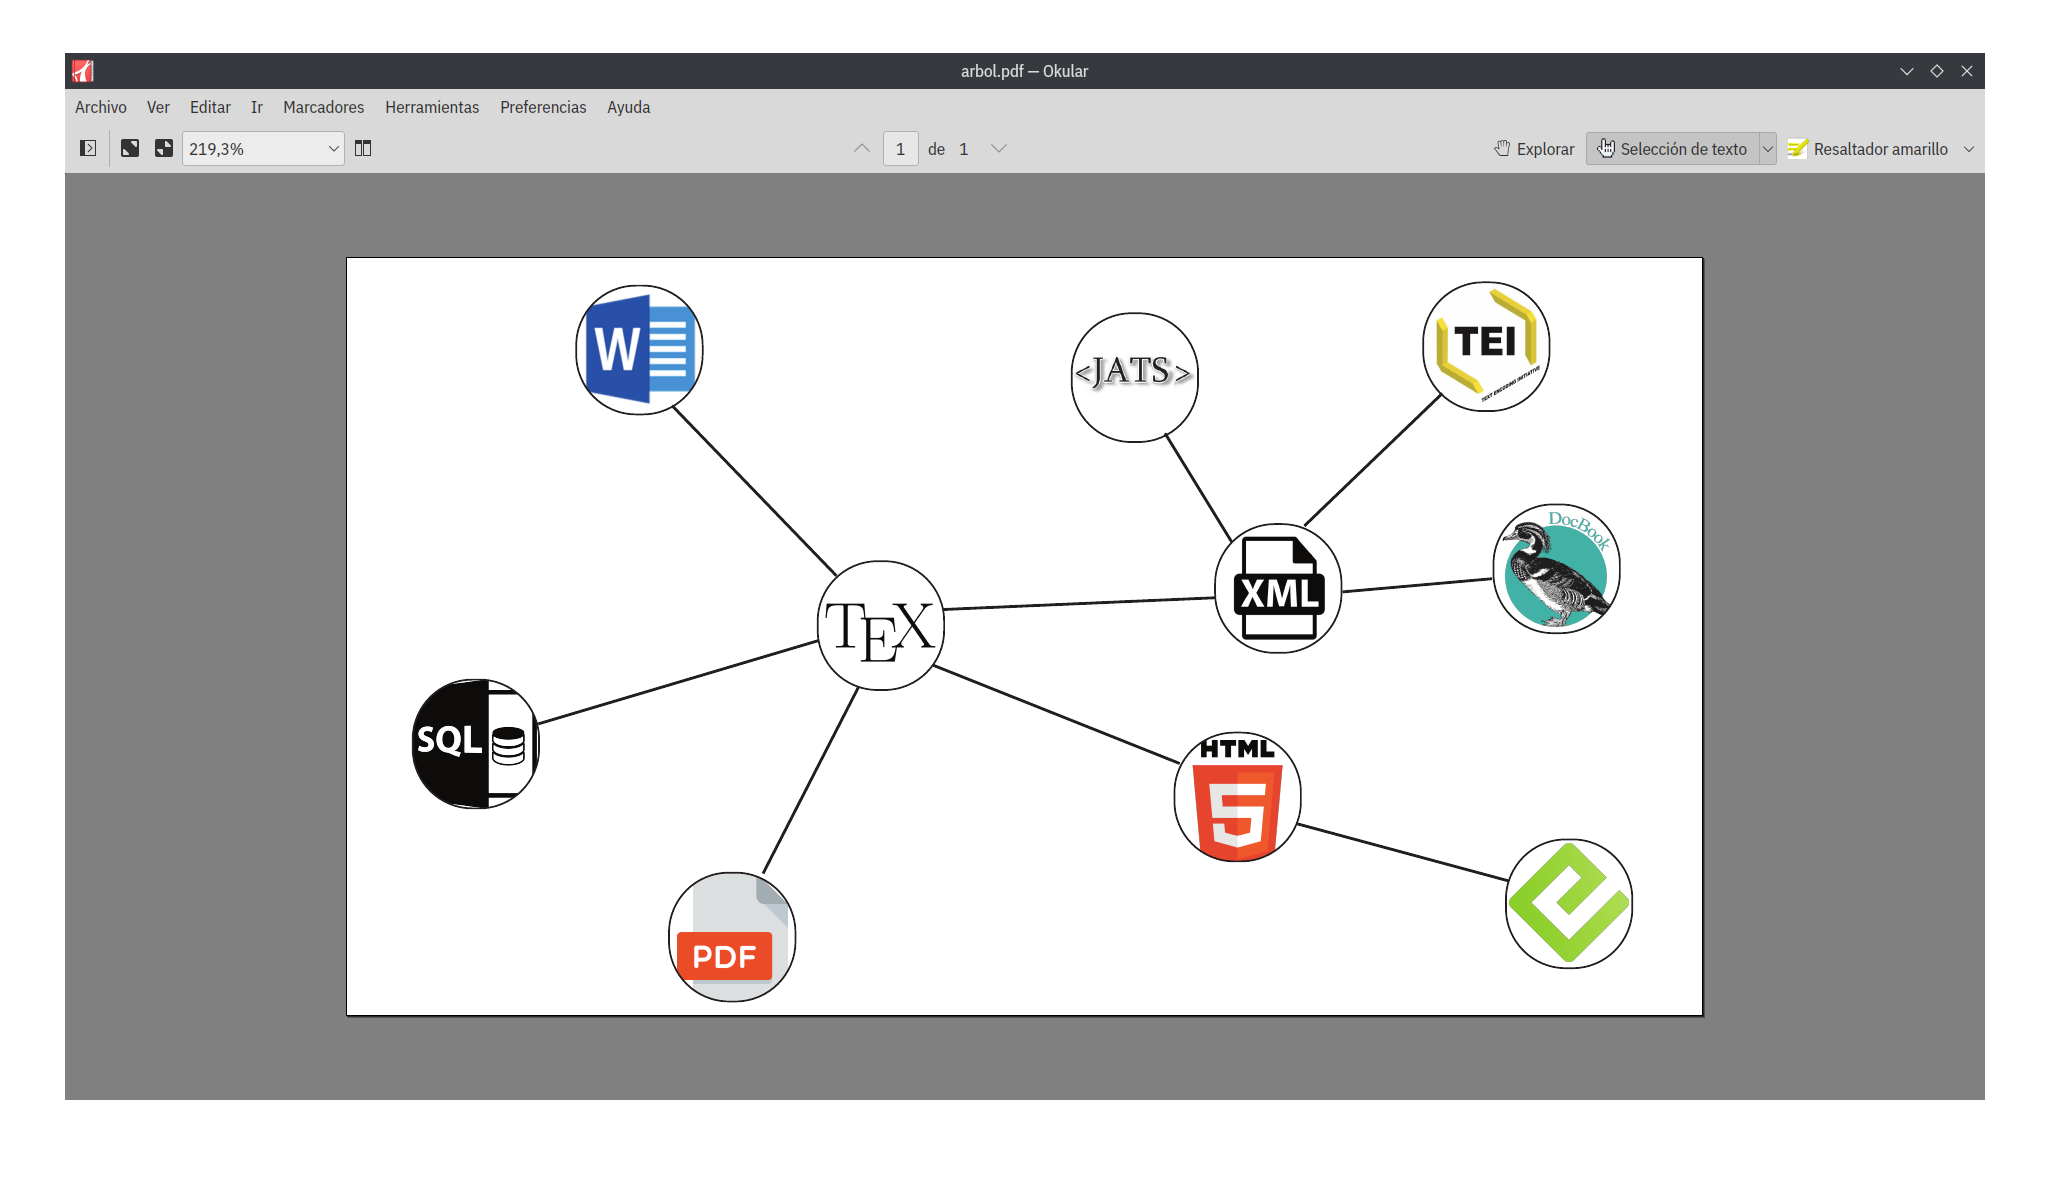
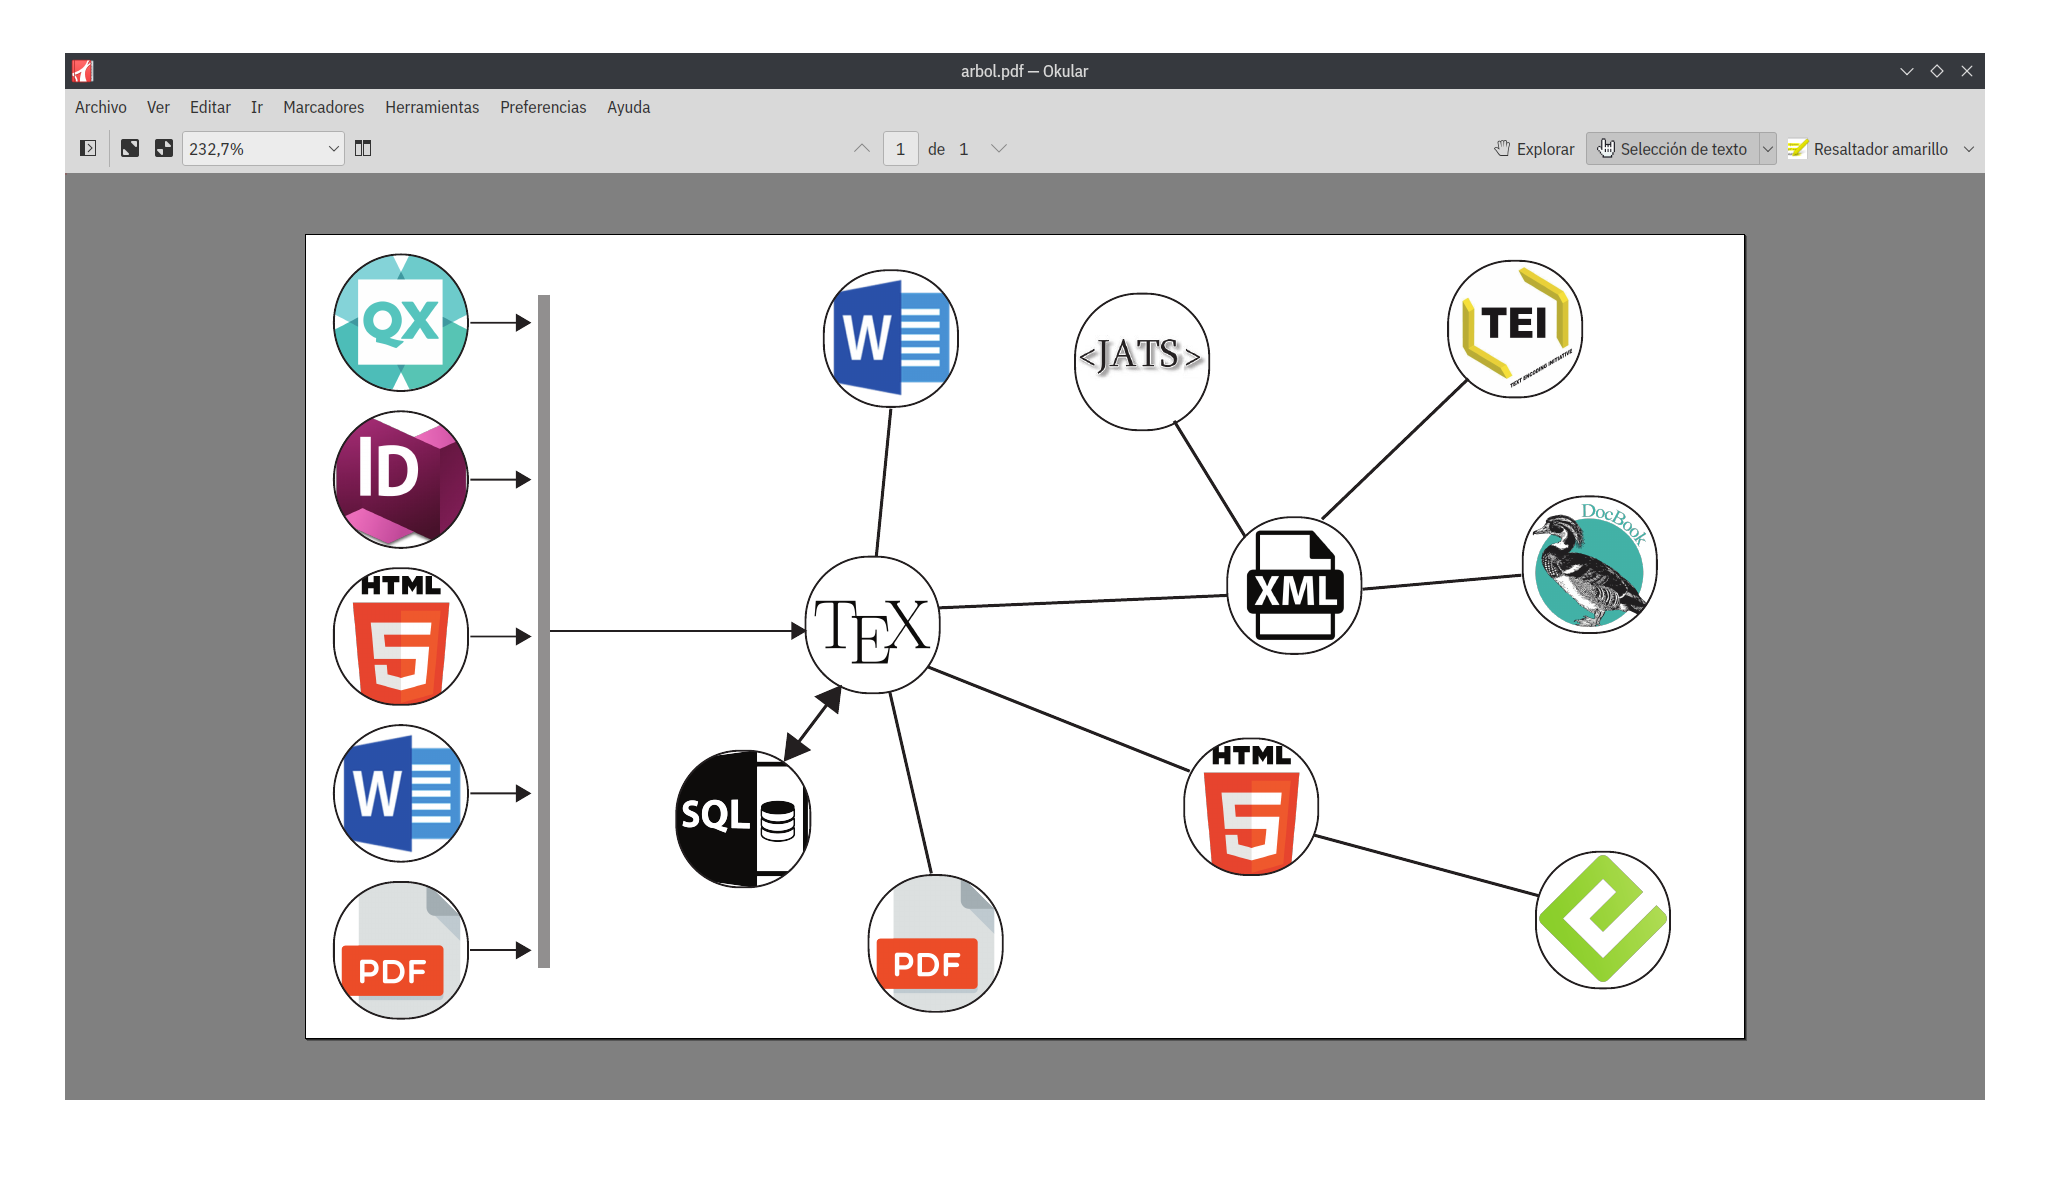
@

diff --git a/docs/post/gbtex/index.html b/docs/post/gbtex/index.html
@@ -53,7 +53,7 @@
   <meta itemprop="name" content="Presentación de gbTeXpublisher">
 <meta itemprop="description" content="Presentación de gbTeXpublisher, marco teórico"><meta itemprop="datePublished" content="2023-12-04T00:00:00+00:00" />
 <meta itemprop="dateModified" content="2023-12-04T00:00:00+00:00" />
-<meta itemprop="wordCount" content="6862"><meta itemprop="image" content="https://albertomoyano.github.io/blog-gbtexpublisher/images"/>
+<meta itemprop="wordCount" content="6872"><meta itemprop="image" content="https://albertomoyano.github.io/blog-gbtexpublisher/images"/>
 <meta itemprop="keywords" content="LaTeX,gbTeXpublisher," />
 
   
@@ -177,7 +177,7 @@
 <p>gbTeXpublisher nace como resultado de una necesidad concreta –<a href="https://www.edicionesimagomundi.com/">mi producción editorial</a>–, desde hace bastante tiempo adhiero al modelo de producción de edición ramificada y encuentro en <a href="https://es.wikipedia.org/wiki/LaTeX">LaTeX</a> la vía apropiada para conseguirlo, hice varios intentos con markdown y asciidoc, pero al final del recorrido siempre encontraba problemas, fundamentalmente en la salida a PDF, me estoy refiriendo a una salida con un <strong>alto estándar de calidad tipográfica</strong>.</p>
 <p>gbTeXpublisher es una aplicación de escritorio que permite gestionar de manera fácil los procesos de producción editorial basados en el lenguaje LaTeX, me gusta pensar en esta aplicación como un facilitador, ya que todo lo que se puede hacer <strong>con</strong> gbTeXpublisher, también se puede hacer <strong>sin</strong> gbTeXpublisher, la diferencia radica en la facilidad que otorga su interfaz.</p>
 <p>gbTeXpublisher es también el resultado del enorme trabajo de muchas personas, a todas les estoy agradecido, pero quisiera hacer una mención particular para <a href="https://es.wikipedia.org/wiki/Donald_Knuth">Donald Knuth</a>, <a href="https://en.wikipedia.org/wiki/Beno%C3%AEt_Minisini">Benoît Minisini</a> y los foros de <a href="http://cervantex.es/">CervanTeX</a> y <a href="https://es.wikipedia.org/wiki/Gambas">Gambas</a> y, de manera especial, para <a href="https://www.kodymirus.cz/">Michal Hoftich</a>, ya que el aporte de su desarrollo ha sido clave en el rumbo que tomaron mis decisiones de producción.</p>
-<p>Dejo por último a Federico Moyano, Sergio Santamaría y Ramiro Santa Ana Anguiano, sus comentarios y aportes fueron de gran ayuda en el desarrollo de este proyecto.</p>
+<p>Dejo por último a Alejandro Moyano, Sergio Santamaría y Ramiro Santa Ana Anguiano, sus comentarios y aportes fueron de gran ayuda en el desarrollo de este proyecto.</p>
 <p>gbTeXpublisher posee <a href="https://www.gnu.org/licenses/gpl-3.0.en.html">licencia GPL3</a>, por consiguiente se concede permiso para copiar, distribuir y modificar este software según los términos de dicha licencia.</p>
 <p>Este artículo es un intento de presentación formal (aunque considero que el desarrollo se encuentra en <em>beta</em>) y me parece oportuno comenzar con una corta introducción teórica sobre los modelos de producción editorial al día de hoy.</p>
 <h2 id="pequeña-introducción">Pequeña introducción</h2>
@@ -200,12 +200,13 @@
 <p>Una de las ideas que predomina es facilitar la consistencia de los datos y la eficiencia en su manipulación, ya que en lugar de mantener y actualizar varios formatos de salida de un mismo contenido, se trabaja en un único archivo de origen (fuente) desde donde se generan diferentes salidas según sea necesario.</p>
 <p>En la edición técnica y en los sistemas de documentación, la edición ramificada también se utiliza para describir el enfoque de mantener una única fuente de información para la creación de manuales, catálogos u otros materiales, lo que facilita la actualización y consistencia en diferentes contextos de uso.</p>
 <p>Ahora bien, para empezar a involucrarnos en este modelo debemos hacer el ejercicio de cambiar la perspectiva de producción, realizando un ejercicio de pensamiento lateral.<sup id="fnref:1"><a href="#fn:1" class="footnote-ref" role="doc-noteref">1</a></sup> La idea es simple: <strong>no nos concentremos en los formatos de salida, sino en los caminos que conducen a ellos</strong>.</p>
-<p><img src="https://albertomoyano.github.io/blog-gbtexpublisher/images/arbol.png" alt=""></p>
 <p>Para facilitar la comprensión de mi explicación, imaginemos que partimos de un archivo fuente. Al seguir el proceso para convertirlo en un PDF, obtenemos un resultado perfecto. Ahora, al utilizar el mismo archivo fuente para generar un ePub, nos encontramos con errores, ya sea en el diseño, la estructura, u otros aspectos. Es crucial corregir estos problemas en el proceso de conversión hacia el ePub, no directamente en el ePub final. Este enfoque garantiza la consistencia en la fuente de los datos.</p>
 <p>Para trabajar con este modelo de producción es necesario utilizar algún lenguaje de marcas,<sup id="fnref:2"><a href="#fn:2" class="footnote-ref" role="doc-noteref">2</a></sup> ¿por qué?, porque hasta ahora la mejor forma conocida de producir es separando <strong>la estructura del contenido</strong> de su <strong>modelo de representación visual</strong> y esto se consigue aplicando marcas (etiquetando) a las partes del documento, ya que se pueden incorporar todas las que sean necesarias acerca de la estructura y el diseño para la representación del texto en la salida buscada.</p>
 <p>La figura a continuación nos muestra un modelo (de todos los posibles) de edición ramificada, donde no existe una secuencia de A con B, sino un inicio de (A) con posibles caminos continuadores (B, C, D, etc.), algunos pueden frenar su andar al llegar a su destino final, otros pueden bifurcarse y convertirse en el inicio de un nuevo camino.</p>
 <p><img src="https://albertomoyano.github.io/blog-gbtexpublisher/images/completo.png" alt=""></p>
 <p>El ejemplo de la figura es uno de los tantos posibles, que tiene su base en el lenguaje de marcas <a href="https://es.wikipedia.org/wiki/Markdown">Markdown</a>, pero también existen otros lenguajes como <a href="https://asciidoc-py.github.io/index.html">asciidoc</a>, <a href="https://orgmode.org/">Org Mode</a> y por supuesto <a href="https://es.wikipedia.org/wiki/LaTeX">LaTeX</a>.</p>
+<p>gbTeXpublisher sigue el modelo representado en la figura que sigue.</p>
+<p><img src="https://albertomoyano.github.io/blog-gbtexpublisher/images/arbol.png" alt=""></p>
 <p>La principal consigna que persigue este modelo es ir de lo simple a lo complejo. Cada formato de salida tiene sus propias necesidades particulares. El PDF para pantalla no es exactamente igual al de imprenta (los hipervínculos hacen una gran diferencia); en el ePub puede hacerse necesario configurar de otra manera las figuras o cuadros; en HTML se puede sacar provecho de la visualización interactiva y así un largo etcétera y como punto de inflexión vamos a encontrar una cuestión clave en Ciencia Abierta, los metadatos.<sup id="fnref:3"><a href="#fn:3" class="footnote-ref" role="doc-noteref">3</a></sup> Por consiguiente, lo que se hace imperioso es <strong>evitar la herencia de características</strong>, que es el principal problema que conlleva la metodología cíclica, a diferencia de esta, la edición ramificada se inicia con un documento simple de <a href="https://es.wikipedia.org/wiki/Archivo_de_texto">texto plano</a> que <strong>contiene solo las marcas</strong> de los elementos estructurales (que a su vez pueden contener el diseño), para luego con ajustes &ndash;manuales o automatizados&ndash; obtener cada salida que evite la herencia de características indeseadas.</p>
 <p>Este es un ejemplo conceptual de la lógica a seguir, supongamos que tengo una marca de cita:<sup id="fnref:4"><a href="#fn:4" class="footnote-ref" role="doc-noteref">4</a></sup></p>
 <ol>

diff --git a/docs/index.html b/docs/index.html
@@ -120,7 +120,7 @@
       <a href="https://albertomoyano.github.io/blog-gbtexpublisher/post/gbtex/">Presentación de gbTeXpublisher</a>
       <div>
         
-        <span>6862 palabras</span>
+        <span>6872 palabras</span>
         
 
         

diff --git a/content/post/gbtex.md b/content/post/gbtex.md
@@ -17,7 +17,7 @@ gbTeXpublisher es una aplicación de escritorio que permite gestionar de manera 
 
 gbTeXpublisher es también el resultado del enorme trabajo de muchas personas, a todas les estoy agradecido, pero quisiera hacer una mención particular para [Donald Knuth](https://es.wikipedia.org/wiki/Donald_Knuth), [Benoît Minisini](https://en.wikipedia.org/wiki/Beno%C3%AEt_Minisini) y los foros de [CervanTeX](http://cervantex.es/) y [Gambas](https://es.wikipedia.org/wiki/Gambas) y, de manera especial, para [Michal Hoftich](https://www.kodymirus.cz/), ya que el aporte de su desarrollo ha sido clave en el rumbo que tomaron mis decisiones de producción.
 
-Dejo por último a Federico Moyano, Sergio Santamaría y Ramiro Santa Ana Anguiano, sus comentarios y aportes fueron de gran ayuda en el desarrollo de este proyecto.
+Dejo por último a Alejandro Moyano, Sergio Santamaría y Ramiro Santa Ana Anguiano, sus comentarios y aportes fueron de gran ayuda en el desarrollo de este proyecto.
 
 gbTeXpublisher posee [licencia GPL3](https://www.gnu.org/licenses/gpl-3.0.en.html), por consiguiente se concede permiso para copiar, distribuir y modificar este software según los términos de dicha licencia.
 
@@ -63,8 +63,6 @@ En la edición técnica y en los sistemas de documentación, la edición ramific
 
 Ahora bien, para empezar a involucrarnos en este modelo debemos hacer el ejercicio de cambiar la perspectiva de producción, realizando un ejercicio de pensamiento lateral.[^1] La idea es simple: **no nos concentremos en los formatos de salida, sino en los caminos que conducen a ellos**.
 
-![](https://albertomoyano.github.io/blog-gbtexpublisher/images/arbol.png)
-
 Para facilitar la comprensión de mi explicación, imaginemos que partimos de un archivo fuente. Al seguir el proceso para convertirlo en un PDF, obtenemos un resultado perfecto. Ahora, al utilizar el mismo archivo fuente para generar un ePub, nos encontramos con errores, ya sea en el diseño, la estructura, u otros aspectos. Es crucial corregir estos problemas en el proceso de conversión hacia el ePub, no directamente en el ePub final. Este enfoque garantiza la consistencia en la fuente de los datos.
 
 Para trabajar con este modelo de producción es necesario utilizar algún lenguaje de marcas,[^marcas] ¿por qué?, porque hasta ahora la mejor forma conocida de producir es separando **la estructura del contenido** de su **modelo de representación visual** y esto se consigue aplicando marcas (etiquetando) a las partes del documento, ya que se pueden incorporar todas las que sean necesarias acerca de la estructura y el diseño para la representación del texto en la salida buscada.
@@ -74,6 +72,10 @@ La figura a continuación nos muestra un modelo (de todos los posibles) de edici
 ![](https://albertomoyano.github.io/blog-gbtexpublisher/images/completo.png)
 
 El ejemplo de la figura es uno de los tantos posibles, que tiene su base en el lenguaje de marcas [Markdown](https://es.wikipedia.org/wiki/Markdown), pero también existen otros lenguajes como [asciidoc](https://asciidoc-py.github.io/index.html), [Org Mode](https://orgmode.org/) y por supuesto [LaTeX](https://es.wikipedia.org/wiki/LaTeX).
+
+gbTeXpublisher sigue el modelo representado en la figura que sigue.
+
+![](https://albertomoyano.github.io/blog-gbtexpublisher/images/arbol.png)
 
 La principal consigna que persigue este modelo es ir de lo simple a lo complejo. Cada formato de salida tiene sus propias necesidades particulares. El PDF para pantalla no es exactamente igual al de imprenta (los hipervínculos hacen una gran diferencia); en el ePub puede hacerse necesario configurar de otra manera las figuras o cuadros; en HTML se puede sacar provecho de la visualización interactiva y así un largo etcétera y como punto de inflexión vamos a encontrar una cuestión clave en Ciencia Abierta, los metadatos.[^cienciaAbierta] Por consiguiente, lo que se hace imperioso es **evitar la herencia de características**, que es el principal problema que conlleva la metodología cíclica, a diferencia de esta, la edición ramificada se inicia con un documento simple de [texto plano](https://es.wikipedia.org/wiki/Archivo_de_texto) que **contiene solo las marcas** de los elementos estructurales (que a su vez pueden contener el diseño), para luego con ajustes --manuales o automatizados-- obtener cada salida que evite la herencia de características indeseadas.
 
